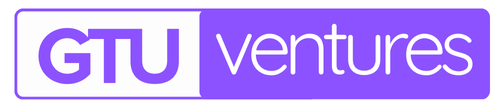
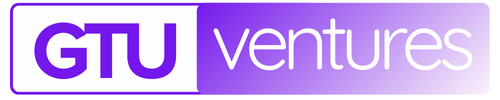
h

diff --git a/src/components/StartupStats.tsx b/src/components/StartupStats.tsx
@@ -90,7 +90,7 @@ export default function StartupStats() {
           mb={2}
           color="gray.800"
         >
-          STARTUP STATISTICS
+          Impact by GTU Ventures
         </Heading>
         <Text fontSize="xl" textAlign="center" mb={12} color="gray.600">
           The success story of GIC. In facts & numbers.
@@ -102,39 +102,106 @@ export default function StartupStats() {
           gap={6}
         >
           <StatItem
-            label="Application Received"
-            value={2650}
-            description="SSIP + NI (2500 + 150)"
+            label="Students Sensitised"
+            value={43000}
+            description=""
             color={pastelColors[0]}
           />
           <StatItem
-            label="Selected Startup"
-            value={276}
-            description="Data SSIP + NI (250 + 26)"
+            label="Students Projects Supported"
+            value={3578}
+            description=""
             color={pastelColors[1]}
           />
           <StatItem
-            label="Fund Disbursed in Lakh"
-            value={234}
-            description="SSIP + NI (62 + 176)"
+            label="Startups/POC Supported"
+            value={730}
+            description=""
             color={pastelColors[2]}
           />
           <StatItem
-            label="Jobs Created"
-            value={500}
-            description="by Startup (SSIP +NI)"
+            label="Funding Disbursed "
+            value={2.55}
+            description="(in Million $)"
             color={pastelColors[3]}
+          />
+          <StatItem
+            label="Jobs Created"
+            value={4100}
+            description="(SSIP + NI)"
+            color={pastelColors[4]}
+          />
+          <StatItem
+            label="Jobs Created"
+            value={4100}
+            description="(SSIP + NI)"
+            color={pastelColors[3]}
+          />
+          <StatItem
+            label="Capacity Building Program"
+            value={600}
+            description=""
+            color={pastelColors[2]}
+          />
+          <StatItem
+            label="Patents Granted"
+            value={102}
+            description=""
+            color={pastelColors[1]}
+          />
+        </Grid>
+        <br />
+        <Grid
+          templateColumns={{ base: "1fr", lg: "repeat(2, 1fr)" }} // 1 column on mobile, 4 columns on laptop+
+          gap={6}
+        >
+          {" "}
+          <StatItem
+            label="Revenue by startups"
+            value={6.75}
+            description="in million $"
+            color={pastelColors[1]}
+          />
+          <StatItem
+            label="Mentors Engaged"
+            value={273}
+            description="in million $"
+            color={pastelColors[4]}
           />
         </Grid>
 
-        <Box mt={12}>
+        {/* <Box mt={12}>
           <StatItem
-            label="Revenue generated in crore"
-            value={12}
+            label="Jobs Created"
+            value={4100}
             description="(SSIP + NI)"
             color={pastelColors[4]}
           />
         </Box>
+        <Box mt={12}>
+          <StatItem
+            label="Jobs Created"
+            value={4100}
+            description="(SSIP + NI)"
+            color={pastelColors[3]}
+          />
+        </Box>
+        <Box mt={12}>
+          <StatItem
+            label="Capacity Building Program"
+            value={600}
+            description=""
+            color={pastelColors[3]}
+          />
+        </Box>
+        <Box mt={12}>
+          <StatItem
+            label="Patents Granted"
+            value={102}
+            description=""
+            color={pastelColors[3]}
+          /> */}
+        {/* </Box> */}
       </Box>
     </Box>
   );

diff --git a/src/pages/index.tsx b/src/pages/index.tsx
@@ -99,7 +99,7 @@ export default function Component() {
             overflow="hidden"
           >
             <Image
-              src="/incubationhome.webp"
+              src="/firstimg.png"
               alt="Modern startup incubator hallway"
               position="absolute"
               inset="0"
@@ -128,11 +128,10 @@ export default function Component() {
                 Execute !
               </Heading>
               <Text fontSize={{ base: "lg", md: "xl" }} mb={8} maxW="3xl">
-                Unlock the full potential of your startup with the AIC-GISC
-                Foundation's comprehensive incubation program.
+                Unlock the full potential of your startup with GTU ventures!
               </Text>
               <Button
-                bg="blue.500"
+                bg="purple.500"
                 _hover={{ bg: "blue.300" }}
                 color="white"
                 fontWeight="bold"
@@ -146,7 +145,7 @@ export default function Component() {
                 colorScheme="whiteAlpha"
                 target="_blank"
               >
-                Get Started
+                Apply Now
               </Button>
             </Flex>
           </Box>
@@ -155,7 +154,6 @@ export default function Component() {
           <StartupStats />
 
           {/* Image Carousel Section */}
-          <ImageCarousel />
 
           {/* About Us Section */}
           <Box id="about" py={{ base: 12, md: 24, lg: 32 }}>
@@ -198,6 +196,7 @@ export default function Component() {
             </Flex>
           </Box>
 
+          <ImageCarousel />
           {/* Services Section */}
           <Box id="services" bg="gray.100" py={{ base: 12, md: 24, lg: 32 }}>
             <Box textAlign="center" px={4}>
@@ -225,7 +224,7 @@ export default function Component() {
           </Box>
 
           <StartupSupport />
-
+<br />
           {/* Circulars and Reports */}
           <CircularsList />
 

diff --git a/src/components/navbar.tsx b/src/components/navbar.tsx
@@ -30,14 +30,10 @@ export default function WithSubnavigation() {
         py={4}
       >
         <Link href="/" display="flex" alignItems="center" gap={2}>
-          <Heading as="span" size="lg" fontWeight="bold">
-            <Image
-              src={"/gtulogo.svg"}
-              alt="GTU Ventures"
-              height={35}
-              width={140}
-            />
-          </Heading>
+            <Flex align="center" gap={2}>
+              <Image src={"/gtulogo.png"} alt="GTU Ventures" height={47} width={47} />
+              <Image src={"/hihb.png"} alt="GTU Ventures" height={47} width={60} />
+            </Flex>
         </Link>
 
         {/* Desktop Links */}
@@ -47,7 +43,7 @@ export default function WithSubnavigation() {
             fontWeight="semibold"
             _hover={{ color: "purple.300" }}
           >
-            About Us
+            About 
           </Link>
           <Link
             href="/startupform"
@@ -110,7 +106,7 @@ export default function WithSubnavigation() {
                   borderRadius="md"
                   _hover={{ bg: "purple.300" }}
                 >
-                  About Us
+                  About 
                 </Link>
                 <Link
                   href="/startupform"

diff --git a/src/components/support.tsx b/src/components/support.tsx
@@ -6,7 +6,7 @@ const CompanyShowcase = () => {
     { src: "/incubators/Nodalinstitute.png", name: "Nodal Institute" },
     { src: "/incubators/SISFS.png", name: "SISFS" },
     { src: "/incubators/ssip-.png", name: "SSIP" },
-    { src: "/incubators/aim.png", name: "AIM " },
+    { src: "/incubators/aim.png", name: "Atal Innovation Mission " },
   ];
 
   return (
@@ -17,7 +17,7 @@ const CompanyShowcase = () => {
       </Text>
 
       {/* Logo Grid */}
-      <SimpleGrid columns={[2, 3, 4]} spacing={10} alignItems="center">
+      <SimpleGrid columns={[2, 3, 5]} spacing={10} alignItems="center">
         {logos.map((logo, index) => (
           <Box key={index} textAlign="center">
             <Image

diff --git a/src/components/footer.tsx b/src/components/footer.tsx
@@ -18,7 +18,7 @@ export default function LargeWithLogoCentered() {
       <Box bg="white" shadow="sm" p={6} rounded="lg" flex="1">
         {/* Image Section */}
         <Flex justify="center" my={4}>
-          <Image src="/gtulogo.svg" alt="GTU Ventures" maxW="100%" />
+          <Image src="/hihb.png" alt="GTU Ventures" maxW="100%" />
         </Flex>
 
         <Text mt={4} textAlign="center">

diff --git a/src/pages/aboutus.tsx b/src/pages/aboutus.tsx
@@ -417,7 +417,7 @@ const advisors = [
 
   {
     name: "Rahul Bhagchandani",
-    role: "Registrar,Director AIC-GISC & GISC GTU",
+    role: "Advisor GIC,GTU",
     image: "/teams/rahulsir.jpg",
     twitter: "https://twitter.com/knkher",
     linkedin: "https://in.linkedin.com/in/rahulbhagchandani",

diff --git a/src/components/circulars.tsx b/src/components/circulars.tsx
@@ -61,7 +61,7 @@ export default function CircularsList() {
     <Box maxW="4xl" mx="auto" p={4}>
       <HStack spacing={2}>
         <Heading as="h1" size="lg">
-          REPORTS & CIRCULARS
+          CIRCULARS 
         </Heading>
         <Icon as={FiArrowUpRight} boxSize={6} />
       </HStack>

diff --git a/src/components/slider.tsx b/src/components/slider.tsx
@@ -110,7 +110,7 @@ export default function ImageCarousel() {
       position="relative"
     >
       <Text fontSize="2xl" fontWeight="bold" textAlign="center" mb={4}>
-        Events
+        Photo Gallery
       </Text>
 <br />
       <Box position="relative" borderRadius="md" overflow="hidden">
